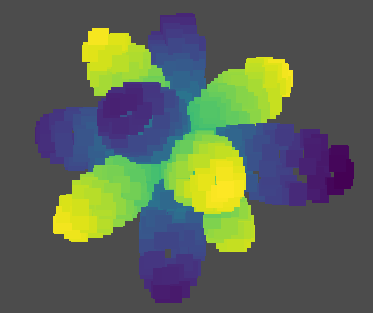
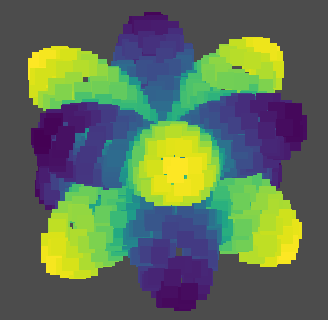
feat: any dimension, any order, subspace

diff --git a/easypde/__init__.py b/easypde/__init__.py
@@ -1,6 +1,50 @@
 import numpy as np
 
-__version__ = "0.2"
+__version__ = "1.0"
+
+class math:
+    @classmethod
+    def partitions(cls, total, number_of_parts):
+        if number_of_parts==1:
+            return [[total]]
+        result = []
+        for i in range(total, -1, -1):
+            result += [[i]+e for e in cls.partitions(total-i, number_of_parts-1)]
+        return result
+
+    @classmethod
+    def factorial(cls, n):
+        result = 1
+        for i in range(2, n+1):
+            result *= i
+        return result
+
+    @classmethod
+    def sigmoid(cls, a):
+        return 1./(1.+np.exp(-a))
+    
+    @classmethod
+    def orthogonize(cls, vectors):
+        vectors = np.array(vectors)
+        for i in range(len(vectors)):
+            vectors[i] /= np.sqrt(np.sum(np.square(np.abs(vectors[i]))))
+            for j in range(i+1, len(vectors)):
+                vectors[j] -= vectors[i]*np.dot(vectors[j], np.conjugate(vectors[i]))
+        return vectors
+    
+    @classmethod
+    def make_orthogonal_basis(cls, vectors, guide_directions=None):
+        vectors = [e for e in vectors]
+        if not guide_directions is None:
+            vectors += [e for e in guide_directions]
+        while len(vectors)<len(vectors[0]):
+            vectors.append(np.random.rand(len(vectors[0]))*2-1)
+        return cls.orthogonize(vectors)
+    
+    @classmethod
+    def get_perpendicular_subspace(cls, subspace, guide_directions=None):
+        space = cls.make_orthogonal_basis(subspace, guide_directions=guide_directions)
+        return space[len(subspace):]
 
 def calculate_weights(A, b, sigma):
     A /= sigma
@@ -11,78 +55,60 @@ def calculate_weights(A, b, sigma):
 def find_closest_points(points, point, n):
     return np.lexsort([np.sum(np.square(points-point), axis=1)])[: n]
 
-def generate_A(points, order=2, space_type="2d"):
-    if space_type=="2d":
-        x = points[:, 0]
-        y = points[:, 1]
-        if order==1:
-            return np.array([
-                np.ones_like(x),
-                x, y
-            ])
-        elif order==2:
-            return np.array([
-                np.ones_like(x),
-                x, y,
-                x**2*0.5,
-                x*y,
-                y**2*0.5
-            ])
-        elif order==3:
-            return np.array([
-                np.ones_like(x),
-                x, y,
-                x**2*0.5,
-                x*y,
-                y**2*0.5,
-                x*x*x/6,
-                x*x*y*0.5,
-                x*y*y*0.5,
-                y*y*y/6
-            ])
-    elif space_type=="3d":
-        x = points[:, 0]
-        y = points[:, 1]
-        z = points[:, 2]
-        if order==2:
-            return np.array([
-                [1.]*len(points),
-                 x, y, z,
-                 x**2*0.5,
-                 y**2*0.5,
-                 z**2*0.5,
-                 x*y,
-                 y*z,
-                 z*x
-            ])
-    
-    return None
+def get_operator_order(dimension, order, axis_names=None):
+    result = []
+    for i in range(order+1):
+        result += math.partitions(i, dimension)
+        
+    if not axis_names is None:
+        for i in range(len(result)):
+            s = ''
+            for j, e in enumerate(result[i]):
+                s += axis_names[j]*e
+            result[i] = s
+        
+    return result
 
-def edit_A(row: int, A, points, point, neighbor_n: int, operator, weight_decay_power: float=3, weight_distribution_radius: float=None, order=2, space_type="2d", dtype=np.float32):
+def generate_A(points, order=2, space_type='full', basis_of_subspace=None):
+    if space_type=='full':
+        result = []
+        for i in range(order+1):
+            for partition in math.partitions(i, points.shape[-1]):
+                factor = 1
+                result.append(np.ones(len(points)))
+                for j, p in enumerate(partition):
+                    result[-1] *= points[:, j]**p
+                    factor /= math.factorial(p)
+                result[-1] *= factor
+        return np.array(result)
+    
+    if space_type=='subspace':
+        return generate_A(points@basis_of_subspace.T, order=order)
+    
+    raise ValueError("Unknown space type: '"+space_type+"'.")
+
+def edit_A(row: int, A, points, point, neighbor_n: int, operator, weight_decay_power: float=3, weight_distribution_radius: float=None, order=2, space_type="full", basis_of_subspace=None, dtype=np.float32):
     if weight_distribution_radius is None:
         weight_distribution_radius = pointcloud.get_typical_distance(points, samples=10)*0.1
     neighbors = pointcloud.find_closest_points(points, point, neighbor_n)
     neighbors_relative_location = points[neighbors]-point
-    A_neighbors = generate_A(neighbors_relative_location, order=order, space_type=space_type)
+    A_neighbors = generate_A(neighbors_relative_location, order=order, space_type=space_type, basis_of_subspace=basis_of_subspace)
     b_neighbors = np.array(operator, dtype=dtype)
     sigma_neighbors = np.sum(np.square(neighbors_relative_location), axis=1)**(weight_decay_power*0.5)+weight_distribution_radius**weight_decay_power
     A[row, neighbors] = calculate_weights(A_neighbors, b_neighbors, sigma_neighbors)
 
-def edit_A_and_b(row: int, A, b, points, point, neighbor_n: int, operator, value: float=0, weight_decay_power: float=3, weight_distribution_radius: float=None, order=2, space_type="2d", dtype=np.float32):
+def edit_A_and_b(row: int, A, b, points, point, neighbor_n: int, operator, value: float=0, weight_decay_power: float=3, weight_distribution_radius: float=None, order=2, space_type="full", basis_of_subspace=None, dtype=np.float32):
     if weight_distribution_radius is None:
         weight_distribution_radius = pointcloud.get_typical_distance(points, samples=10)*0.1
     neighbors = pointcloud.find_closest_points(points, point, neighbor_n)
     neighbors_relative_location = points[neighbors]-point
-    A_neighbors = generate_A(neighbors_relative_location, order=order, space_type=space_type)
+    A_neighbors = generate_A(neighbors_relative_location, order=order, space_type=space_type, basis_of_subspace=basis_of_subspace)
     b_neighbors = np.array(operator, dtype=dtype)
     sigma_neighbors = np.sum(np.square(neighbors_relative_location), axis=1)**(weight_decay_power*0.5)+weight_distribution_radius**weight_decay_power
     A[row, neighbors] = calculate_weights(A_neighbors, b_neighbors, sigma_neighbors)
     b[row] = value
 
 class pointcloud:
-    @classmethod
-    def sigmoid(cls, a):
-        return 1./(1.+np.exp(-a))
 
     @classmethod
     def find_closest_points(cls, points, point, n):
@@ -107,7 +133,7 @@ class pointcloud:
     def repulsive_force(cls, points1, points2, prefered_distance, sharpness):  # 计算第一组点受到的第二组点的斥力，返回向量模长在0和1之间
         v = np.reshape(points1, (-1, 1, points1.shape[-1]))-points2
         distances = np.sqrt(np.sum(np.square(v), axis=-1))
-        factor = np.divide(cls.sigmoid(sharpness/prefered_distance*(prefered_distance-distances)), distances, where=np.abs(distances)>prefered_distance*0.0001)
+        factor = np.divide(math.sigmoid(sharpness/prefered_distance*(prefered_distance-distances)), distances, where=np.abs(distances)>prefered_distance*0.0001)
         forces = np.sum(np.transpose(v, axes=(2, 0, 1))*factor, axis=2).T
         return forces
     

diff --git a/README.md b/README.md
@@ -329,7 +329,16 @@ A new window should open, showing a 3D cube. You can rotate it with your mouse. 
 
 ![3d](images/3d.png)
 
-You can solve and visualize the solution in the same way. The only difference is that the definition of differential operators now have 10 items, because its the combination of  $1$, $ \frac {\partial}{\partial x}$, $ \frac {\partial}{\partial y}$, $\frac {\partial}{\partial z}$, $\frac {\partial^2}{\partial x^2}$, $\frac {\partial^2}{\partial y^2}$, $\frac {\partial^2}{\partial z^2}$, $ \frac {\partial^2}{\partial x \partial y}$, $ \frac {\partial^2}{\partial y \partial z}$, $ \frac {\partial^2}{\partial x \partial z}$.
+You can solve and visualize the solution in the same way. The only difference is that the definition of differential operators now have 10 items, because its the combination of  $1$, $ \frac {\partial}{\partial x}$, $ \frac {\partial}{\partial y}$, $\frac {\partial}{\partial z}$, $\frac {\partial^2}{\partial x^2}$, $ \frac {\partial^2}{\partial x \partial y}$, $ \frac {\partial^2}{\partial x \partial z}$, $\frac {\partial^2}{\partial y^2}$, $ \frac {\partial^2}{\partial y \partial z}$, $\frac {\partial^2}{\partial z^2}$.
+
+Be careful of the order. Use `easypde.get_operator_order` to get a list of operators.
+
+```python
+easypde.get_operator_order(3, 2, axis_names=['x', 'y', 'z'])
+# Result: ['', 'x', 'y', 'z', 'xx', 'xy', 'xz', 'yy', 'yz', 'zz']
+```
+
+The code for solving this PDE is as follows.
 
 ```python
 A = np.zeros((len(points), len(points)))
@@ -342,13 +351,11 @@ for i, point in enumerate(points):
     if x==0 or x==1 or y==0 or y==1 or z==0 or z==1:  # On boundary
         a = np.arctan2(x, y)
         easypde.edit_A_and_b(i, A, b, points, point, 7, [1, 0, 0, 0, 0, 0, 0, 0, 0, 0],
-                             weight_distribution_radius=weight_distribution_radius,
-                             space_type="3d")
+                             weight_distribution_radius=weight_distribution_radius)
     else:  # Internal
-        easypde.edit_A_and_b(i, A, b, points, point, 27, [0, 0, 0, 0, 1, 1, 1, 0, 0, 0],
+        easypde.edit_A_and_b(i, A, b, points, point, 27, [0, 0, 0, 0, 1, 0, 0, 1, 0, 1],
                              value=1,
-                             weight_distribution_radius=weight_distribution_radius,
-                             space_type="3d")
+                             weight_distribution_radius=weight_distribution_radius)
 
 solution = np.linalg.solve(A, b)
 
@@ -364,10 +371,11 @@ easypde.plot_points(points[:500], field=solution[:500], point_size=17)
 
 In this section, we calculate eigenfunction of $\nabla^2$ on sphere. This problem is of great importance in quantum mechanics.
 
-Let $\Omega=${$(x, y, z)|x^2+y^2+z^2=1$}. Eigenfunctions on sphere can be very symmetric and beautiful. However, generally speaking, there are multiple eigenfunctions sharing same eigenvalues. It's bad for visualization, because a numerical result of a eigenfunction can be combination of several symmetric eigenfunctions, resulting in an asymmetric sum. Here, for convenience, we use a trick to avoid this trouble as much as possible. Instead of $\frac {\partial^2}{\partial x^2}+\frac {\partial^2}{\partial y^2}+\frac {\partial^2}{\partial z^2}$, we calculate eigenvalues of $\frac {\partial^2}{\partial x^2}+\frac {\partial^2}{\partial y^2}+1.2\frac {\partial^2}{\partial z^2}$.
+Let $\Omega=${$(x, y, z)|x^2+y^2+z^2=1$}. Eigenfunctions on sphere can be very symmetric and beautiful. Turn to [Spherical harmonics - Wikipedia](https://en.wikipedia.org/wiki/Spherical_harmonics) for more introductions of these functions.
 
 ```python
 # Scatter points on sphere.
+np.random.seed(0)
 points = np.random.randn(2000, 3)
 
 # Relax the points.
@@ -376,25 +384,52 @@ for i in range(40):
     points /= np.sqrt(np.sum(np.square(points), axis=-1)).reshape((-1, 1))
 
 # Fill matrix A.
+np.random.seed(0)
 A = np.zeros((len(points), len(points)))
 weight_distribution_radius = easypde.pointcloud.get_typical_distance(points)*0.1
 for i, point in enumerate(points):
-    easypde.edit_A(i, A, points, point, 27, [0, 0, 0, 0, 1, 1, 1.2, 0, 0, 0],
+    easypde.edit_A(i, A, points, point, 16, [0, 0, 0, 1, 0, 1],
                    weight_distribution_radius=weight_distribution_radius,
-                   space_type="3d")
+                   space_type='subspace', basis_of_subspace=easypde.math.get_perpendicular_subspace([point]))
 
 # Calculate eigenvalues and eigenvectors of A.
 eig = np.linalg.eig(A)
 
-# Visualize the 20th eigenvector.
-eigenvector_id = 19
+plt.plot(np.sort(np.abs(eig[0]))[:40], 'o')  # Plot eigenvalues.
+```
+
+![eigen_values](images/eigen_values.png)
+
+Here we used the option`space_type='subspace'` and `basis_of_subspace=array([vectors])`, which define the subspace where the operators operate.  And we used `easypde.math.get_perpendicular_subspace` to generate the basis of the subspace, which is perpendicular to the vector $r$.
+
+You can see the 1, 3, 5, 7, ... pattern of the eigenfunctions sharing same eigenvalues, which is a well-known character of spectrum of Laplacian on a sphere.
+
+When you try to plot an eigenfunction by
+
+```python
+# Visualize the 22th eigenvector.
+eigenvector_id = 21
 easypde.plot_points((points.T*np.abs(eig[1].T[np.lexsort([np.abs(eig[0])])[eigenvector_id]])).T,
                     field=np.real(eig[1].T[np.lexsort([np.abs(eig[0])])[eigenvector_id]]), point_size=17)
 ```
 
-![eigen_function](images/eigen_function.png)
+![eigen_function_asymmetric](images/eigen_function_asymmetric.png)
 
-Here we use absolute value of eigenfunction to morph the sphere to get better visualization.
+We use absolute value of eigenfunction to morph the sphere to get better visualization.
+
+The result is not symmetric at all. This is because the eigenfunctions sharing eigenvalue mixed. To get a more symmetric result, you can make the operator behave a little different in the longitude and latitude direction. You only need to change the "Fill matrix A" part of the above code.
+
+```python
+np.random.seed(0)
+A = np.zeros((len(points), len(points)))
+weight_distribution_radius = easypde.pointcloud.get_typical_distance(points)*0.1
+for i, point in enumerate(points):
+    easypde.edit_A(i, A, points, point, 16, [0, 0, 0, 1, 0, 1.1],
+                   weight_distribution_radius=weight_distribution_radius,
+                   space_type='subspace', basis_of_subspace=easypde.math.get_perpendicular_subspace([point], guide_directions=[[0, 0, 1]]))
+```
+
+![eigen_function](images/eigen_function.png)
 
 ## ODE Example
 
@@ -433,7 +468,7 @@ easypde.plot_points(points, field=u)
 
 As you see, the round patch moves in the direction of $v$ and gets blur.
 
-Let's do some interesting. If it's easy to define differential operators in EasyPDE, why not just treat the above 2D ODE problem as a 3D PDE problem? The operator should be $-v\cdot \nabla u-\frac {\partial u} {\partial t}+\mu \nabla^2 u$, which can be encoded as `[0, -1, -1, -1, 0.03, 0.03, 0, 0, 0, 0]`.
+Let's do some interesting. If it's easy to define differential operators in EasyPDE, why not just treat the above 2D ODE problem as a 3D PDE problem? The operator should be $-v\cdot \nabla u-\frac {\partial u} {\partial t}+\mu \nabla^2 u$, which can be encoded as `[0, -1, -1, -1, 0.03, 0, 0, 0.03, 0, 0]`.
 
 ```python
 points = np.mgrid[0:1:20j, 0:1:20j, 0:0.3:6j].T.reshape([-1, 3])
@@ -448,12 +483,10 @@ for i, point in enumerate(points):
     if t==0:
         easypde.edit_A_and_b(i, A, b, points, point, 7, [1, 0, 0, 0, 0, 0, 0, 0, 0, 0],
                              value=np.clip(30*(0.15-np.sqrt((x-0.5)**2+(y-0.5)**2)), 0, 1),  # u(x, 0)
-                             weight_distribution_radius=weight_distribution_radius,
-                             space_type="3d")
+                             weight_distribution_radius=weight_distribution_radius)
     else:
-        easypde.edit_A_and_b(i, A, b, points, point, 27, [0, -1, -1, -1, 0.03, 0.03, 0, 0, 0, 0],
-                             weight_distribution_radius=weight_distribution_radius,
-                             space_type="3d")
+        easypde.edit_A_and_b(i, A, b, points, point, 27, [0, -1, -1, -1, 0.03, 0, 0, 0.03, 0, 0],
+                             weight_distribution_radius=weight_distribution_radius)
 
 solution = np.linalg.solve(A, b)
 
